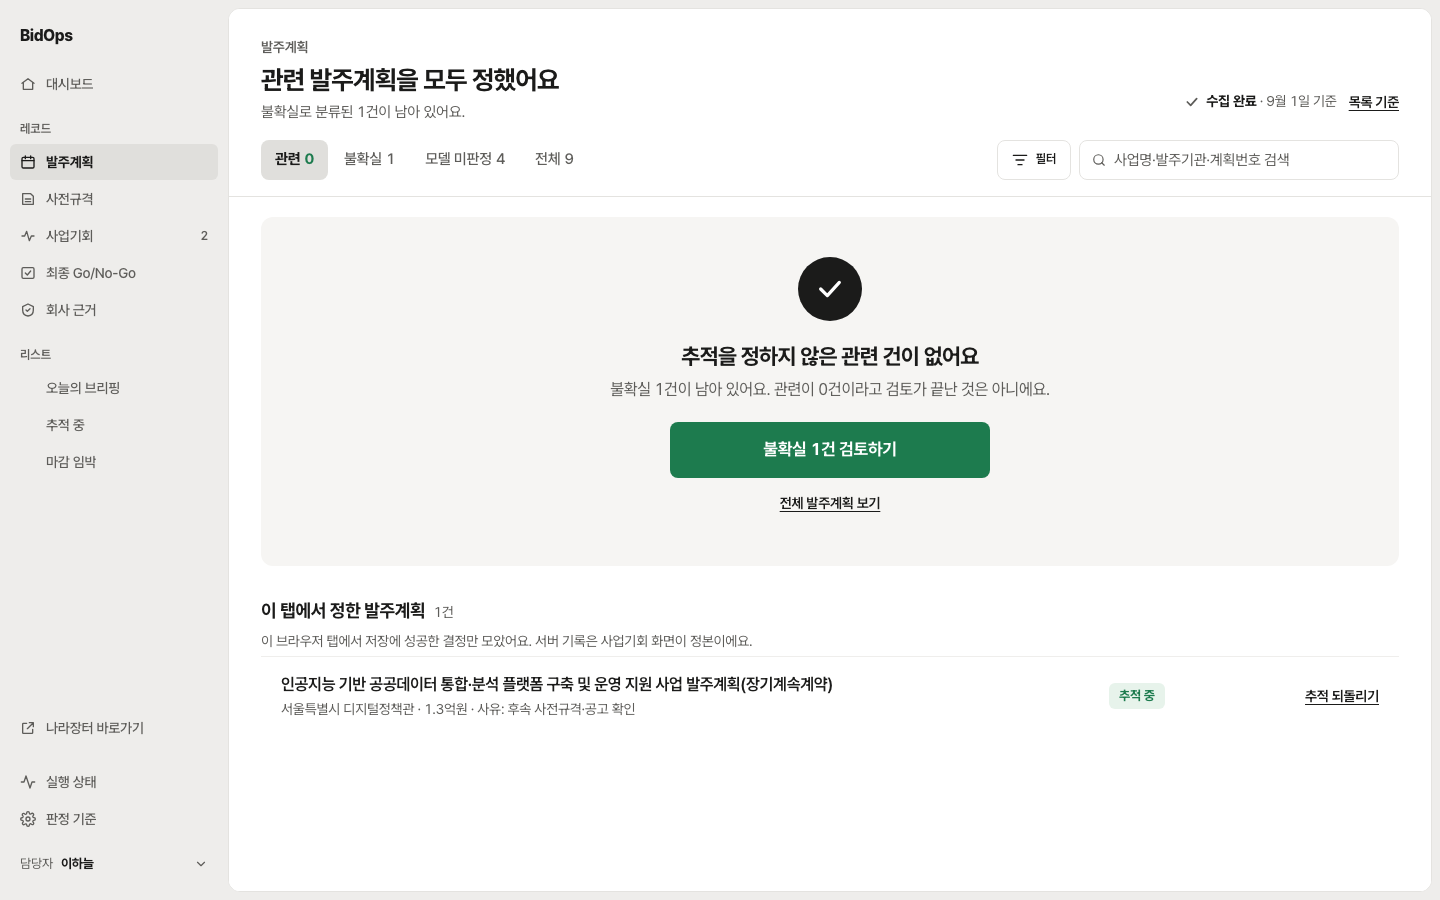
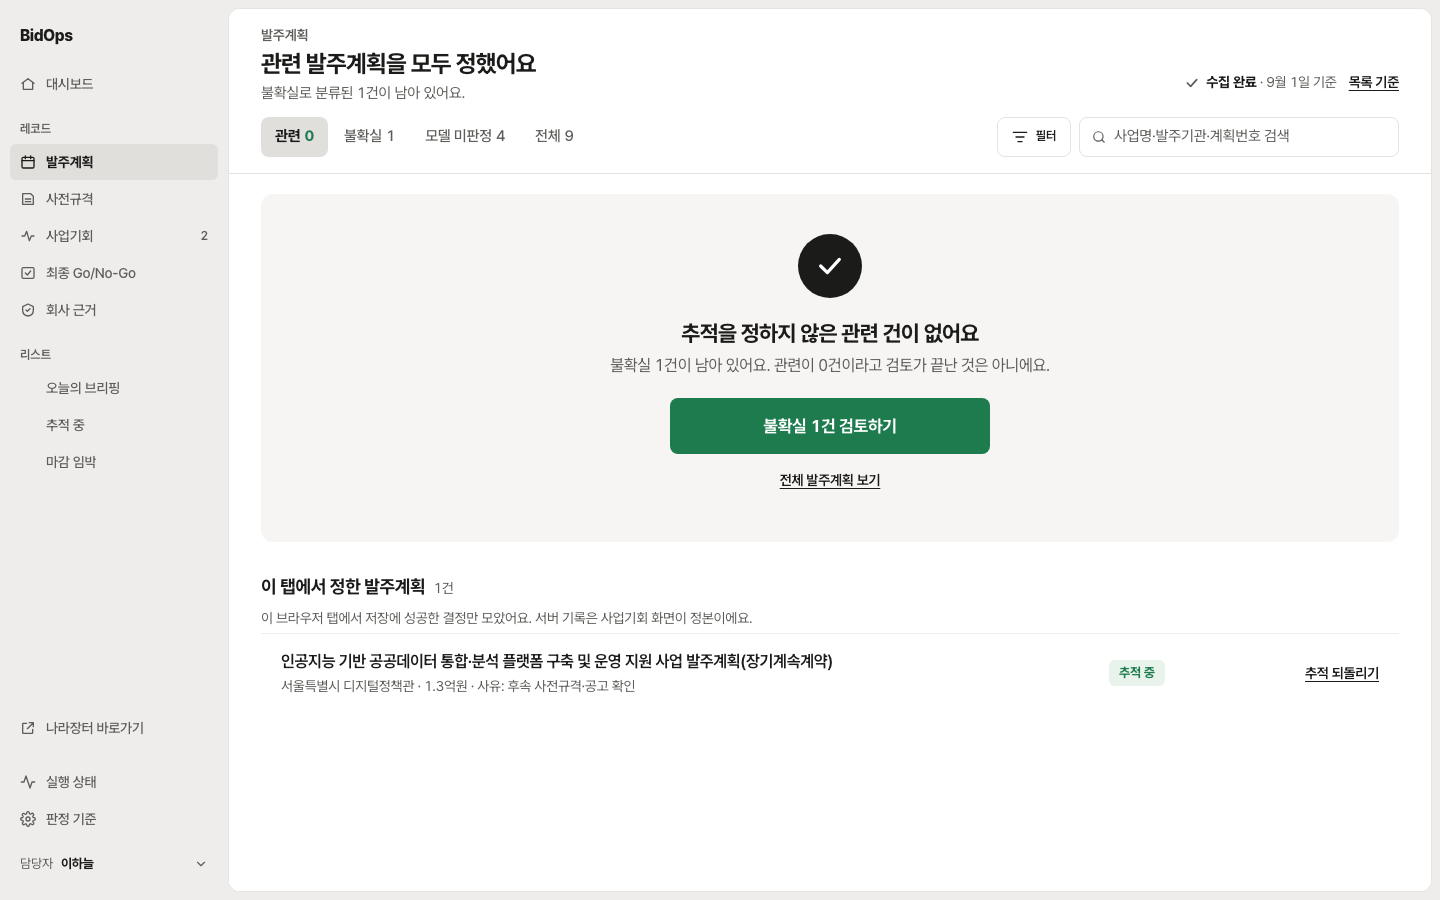
docs: ADR-0076 decisions 11-12 (panel body density, compressed header without fixed descriptions), refreshed captures
- ADR-0076: decision 11 (panel-density mapping, boxes to fill blocks or top rule,
  56px primary CTAs) and decision 12 (2026-11-20 user request: header
  compression and removal of fixed description lines; data sentences kept,
  gate sentences moved to body notes). Results: pixel regeneration, header
  heights before/after, measured panel body numbers.
- ui-spec: panel header row and the 2026-11-20 header note.
- web/frontend/AGENTS.md rules were committed with the frontend change.
- tracking/status: rounds 1-3 merged in main c5e4b6b, round 4 on this branch.
- docs/1119_kstyle-shell/shots: recaptured at 1440x900 and 1280x800 after data
  loaded (mock fixtures).

diff --git a/docs/tracking/decisions/0076-kstyle-panel-shell.md b/docs/tracking/decisions/0076-kstyle-panel-shell.md
@@ -59,6 +59,20 @@
     영역은 본문 담당자 입력 칸 대신 사이드바 담당자 칸을 연다. 사용자 문구는 화면·대화상자·토스트·빈 상태·오류 안내
     전부 해요체다(서버가 준 문자열·계약 값은 그대로). 패널 헤더의 수집 상태는 서버 판정
     `GET /api/daily-collection-status`([계약](../../contracts/lifecycle-rest.md))를 옮긴다.
+11. **2026-11-20 4차(사용자 지시 "나머지 화면 안쪽").** 패널 본문(`.page-canvas`) 안에서는 옛 조밀 단 토큰이 k 단을
+    가리킨다(`styles/panel-density.css`): 보조·캡션 12→14, 본문·목록 첫 줄 14→16, 구역 제목 14→18/700, 상세 제목
+    20→22, Astryx 단추 28·32→44, 입력 48, 안쪽 탭 40(둥근 칸, 밑줄 없음), 상태 칩 13px. 패널 안 테두리 상자(대시보드
+    일일 수집·건수 묶음·패널, 판정 기준·실행 상태 요약 줄·작업 영역 틀, 입찰 변경 비교 카드, 회사 근거 목록, 사업기회
+    단계 상자, Go/No-Go 건수 묶음, 사전규격 상세 자동 단계·문서 준비)는 옅은 채움 블록 또는 위 실선으로 바꿨다. 의미색
+    경고·오류 알림과 표의 칸·행 선은 그대로다. 주 CTA 56px은 입찰 변경 비교 `결정 확인`과 Go/No-Go 미리보기
+    `변경 검토·결정 열기`다.
+12. **2026-11-20 사용자 요청: 헤더 압축, 고정 설명 줄 제거.** 결정 3을 고친다. 패널 헤더 `<h1>`은 24px/700
+    (`--bo-k-display`, 쓰는 곳은 패널 헤더 하나), 위아래 여백 16·제목과 탭 사이 12, 탭 40px 유지. 설명 줄
+    (`page-header-description`)에는 고정 설명·주의 문구를 두지 않고, 그 순간의 데이터를 말하는 문장만 남긴다(브리핑의
+    마감 요약, 발주계획 `불확실로 분류된 n건이 남아 있어요`, 사업기회 레코드의 연결 단계·후보 확인 요청, 입찰 변경
+    비교의 발주기관·문서 식별자). 헤더가 유일한 자리였던 경계 문장은 본문 보조 문구로 옮겼다 — Go/No-Go 미리보기
+    결정 단추 아래 안내에 `추적 선택이나 판정은 Go/No-Go를 대신하지 않아요`, 실행 상태 바닥 경계 문구에 `참조 실행은
+    운영 완료가 아니에요`.
 
 ## 결과
 
@@ -74,6 +88,16 @@
   `npm ci`). 이전 기준선은 WSL2 linux(x86_64) 호스트에서 만들어졌으므로 생성 환경이 바뀌었다. 갱신 직후 같은
   컨테이너에서 `npm run test:pixel` 7/7 통과. `deep-review-complete`는 2026-11-19 route가 내려가 대표 화면에서 빠졌고
   기준 이미지는 그대로 남겼다.
+- 2026-11-20 4차(결정 11·12) 뒤 같은 6장을 다시 갈아 끼웠다. 사유: 패널 본문 k 단·테두리 상자 정리와 사용자 요청
+  헤더 압축·고정 설명 줄 제거. 생성 환경은 위와 같은 일회용 컨테이너(`playwright:v1.62.1-noble`, linux/amd64, node
+  v24.18.1, 컨테이너 전용 `npm ci`, 볼륨은 실행 뒤 삭제)이고 갱신 직후 같은 컨테이너에서 `npm run test:pixel` 7/7 통과.
+- 2026-11-20 사용자 요청: 헤더 압축, 고정 설명 줄 제거. 패널 헤더 높이(1440·1280 같음) — 탭 없는 화면(대시보드)
+  132→88px, 탭 있는 화면(발주계획 188→140, 판정 기준 187→139), 상세 화면(사전규격 상세 141→116, 사업기회 레코드
+  254→217, 입찰 변경 비교 173→146). 설명을 뺀 화면: 대시보드·사업기회·최종 Go/No-Go·실행 상태·판정 기준·회사 근거·
+  사전규격 목록·발주계획(관련·불확실·모델 미판정·전체 보기, 모두 정한 뒤 불확실 0건일 때).
+- 4차 패널 본문 실측(1440×900, mock fixture, 일회성 스크립트): 16개 화면·탭 모두 본문 보이는 글자의 13px 미만 개수가
+  0(수정 전 6~114), 버튼 최소 44(탭 40), 입력 48, 패널 안 네 변 테두리 상자 0(수정 전 1~19; 사전규격 목록의 의미색
+  경고 알림 1개는 남김).
 
 ## 대안
 

diff --git a/docs/1016_rootlab-redefinition/ui-spec.md b/docs/1016_rootlab-redefinition/ui-spec.md
@@ -8,6 +8,8 @@
   단(위 28·옆 32, 제목 22px/700)이다. 발주계획 결정 영역에는 담당자 입력 칸이 없고 사이드바 담당자 칸을 연다. 사용자
   문구는 전 화면 해요체(제목 마침표 없음)이고, 서버가 준 문자열은 그대로다. 발주계획·사전규격·사업기회 헤더의 수집
   상태는 `GET /api/daily-collection-status`의 서버 판정이다.
+- **2026-11-20 사용자 요청: 헤더 압축, 고정 설명 줄 제거(ADR-0076 결정 12).** 패널 헤더는 위아래 16·`<h1>` 24/700·
+  제목과 탭 사이 12이고 탭 없는 헤더는 88px 안팎이다. 설명 줄에는 그 순간의 데이터를 말하는 문장만 둔다.
 - 상태: 2026-10-16 사용자 확정 시안 v26을 구현 가능한 수준으로 고정한 명세. 기능 intent·spec·plan(`/sdlc:feature RL-0x`)은 이 문서를 화면 정본으로 인용한다. 시안 HTML 사본은 [`mockups/v26/`](mockups/v26/README.md).
 - 적용 범위: 브리핑·사업기회 레코드(활동·판정·제안서 탭)·회사 근거·Slack 메시지. 기존 화면(발주계획·사전규격·사업 추적·Go/No-Go·판정 기준·실행 상태)은 §1.4의 메뉴 재배치 외에는 바꾸지 않는다.
 - 지키는 것: 데스크톱 1280~1920 전용(ADR-0047), 테마 토큰만 읽고 화면 CSS에서 `--color-*`를 재정의하지 않음(ADR-0048), Astryx 컴포넌트 우선·레이아웃은 프로젝트 소유(ADR-0040), `unknown`을 부족으로 승격하지 않음(HP 계약 §7), 판정은 보조 의견이고 추적·Go/No-Go는 사람 결정.
@@ -22,7 +24,7 @@
 | 셸 바탕 | `--bo-frame #EEEDEB`. 흰 패널은 바깥 여백 8px(왼쪽 0)·1px `#E4E3E0`·radius 12 |
 | 사이드바 | 고정 228px, 면 없음(바탕 위), 경계 없음, 안쪽 12/10/8px. 세로 스크롤은 사이드바 내부. 접기 없음 |
 | 상단바 | **없음.** 패널 맨 위의 패널 헤더가 대신한다 |
-| 패널 헤더 | 위28·좌우32·아래16, 화면 이름 14/600 · `<h1>` 26/700(문장형) · 설명 15 · 오른쪽 액션 · 둥근 칸 탭 40px · 아래 1px. 상세는 맨 위 `‹ 목록` 링크(위 16) |
+| 패널 헤더 | 위16·좌우32·아래16, 화면 이름 14/600 · `<h1>` 24/700(문장형) · 데이터 문장일 때만 설명 15 · 오른쪽 액션 · 제목과 12 띄운 둥근 칸 탭 40px · 아래 1px. 상세는 맨 위 `‹ 목록` 링크(위 12) (2026-11-20 압축) |
 | 하위줄 | 패널 헤더 안 탭 줄(선택 `#E0DFDC` 채움) + 오른쪽 필터·검색(40px) |
 | 본문 | 기본 여백 위24·좌우32·아래32. 목록|상세 화면은 여백 0(`canvas: "flush"`), 목록 38% + 세로선 하나 |
 | 최소 폭 | 1280. 그 미만은 가로 스크롤(별도 레이아웃 없음) |

diff --git a/docs/tracking/status.md b/docs/tracking/status.md
@@ -16,7 +16,7 @@
 | RL-05 | 평가·사람 결정 절차 완료, **인수 reject**(10월 20일) | [RL-05](../validation-runs/2026-10-19-rl/RL-05/README.md). 판정 일치 3/10, 차단 조건 recall 0/7, 카드 일치 84/100이나 모델 카드 447개 모두 unknown |
 | RL-06·07 | `review`, 각각 0/4·0/6 STEP | [로드맵](../work/constitution/roadmap.md). 최적화·판정 UX 구현 전, 대조 품질 개선과 별개 |
 | RL-10 | 대조 규칙 v2(상주 장소·제외 분야 차단)·정책 v12 구현, 브랜치 `feat/rl03-compare-blockers`(2026-11-19, 미병합·미배포·DB import 없음) | [spec](../work/groups/RL/features/RL-10-compare-blockers/spec.md), [탐침 재생](../validation-runs/20261119-rl10-compare-blockers/README.md). 회사 근거 v4 그대로는 놓친 차단 0/7 그대로 — 구조화 회사 값 확인과 gold 재측정(승인 대상) 전이며 품질 근거 아님 |
-| 관리 화면 UI 재구성 | ADR-0076(2026-11-19 사용자 승인, 2026-11-20 후속) 셸·패널 헤더·전 화면 정리·해요체 문구와 읽기 전용 수집 기준일 API(`GET /api/daily-collection-status`)가 브랜치 `worktree-agent-a72925add1c17cfca`에 커밋돼 있다(main `906c737` 병합 포함, main 미병합·미배포). pixel 기준선(linux)은 이 브랜치에서 갱신 | [ADR-0076](decisions/0076-kstyle-panel-shell.md), `docs/1119_kstyle-shell/`. 화면 변경이며 품질 합격·운영 활성화가 아님 |
+| 관리 화면 UI 재구성 | ADR-0076(2026-11-19 사용자 승인, 2026-11-20 후속) 셸·패널 헤더·전 화면 정리·해요체 문구와 읽기 전용 수집 기준일 API(`GET /api/daily-collection-status`)는 main `c5e4b6b`에 병합됐다(미배포). 2026-11-20 4차(패널 본문 k 단·테두리 상자 정리, 사용자 요청 헤더 압축·고정 설명 줄 제거, 결정 11·12)는 브랜치 `worktree-agent-a72925add1c17cfca`에 커밋돼 있다(main 미병합·미배포). pixel 기준선(linux)은 이 브랜치에서 갱신 | [ADR-0076](decisions/0076-kstyle-panel-shell.md), `docs/1119_kstyle-shell/`. 화면 변경이며 품질 합격·운영 활성화가 아님 |
 | 미구현 | 입찰 delta 계산 worker, 첨부 실패·묶음 failed 재시작 화면, 인증/SSO | 문서 준비·Slack 경로·최종 결정 저장/REST까지 미구현인 것으로 확대하지 않음 |
 
 ### 상태 파일과 큐의 해석
